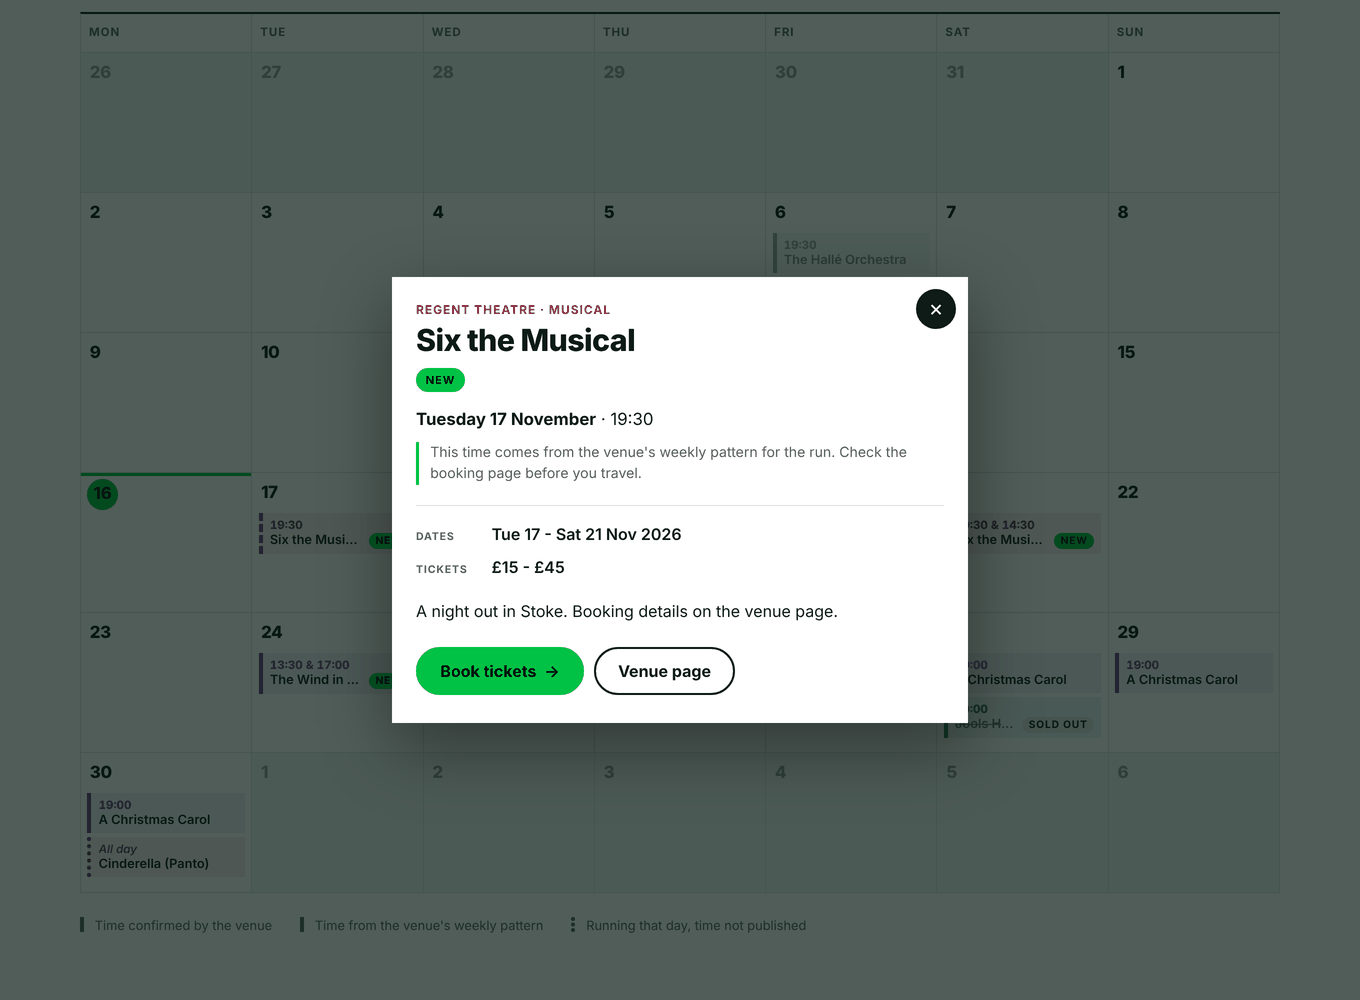
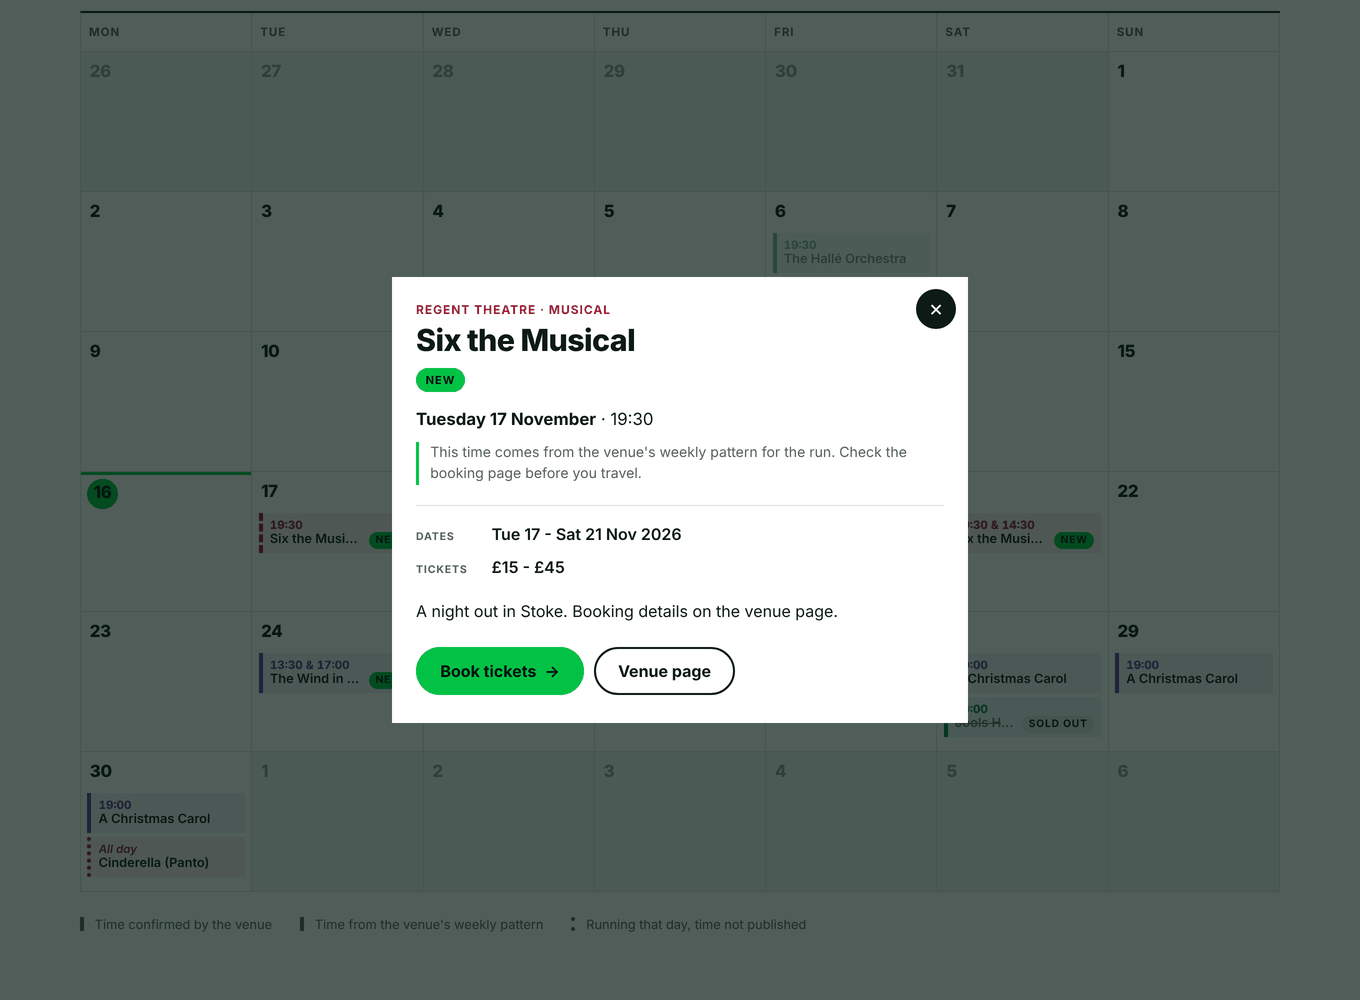
Use flat block colours instead of a gradient hero and shadows
Claude-Session: https://claude.ai/code/session_01EoT8fyBNAVS2zDQ5TxSdoR

diff --git a/public/styles.css b/public/styles.css
@@ -67,25 +67,20 @@ h1, h2, h3 { font-weight: 800; line-height: 1.1; margin: 0; letter-spacing: -0.0
 }
 .brand { display: inline-flex; align-items: center; gap: 0.6rem; color: var(--ink); text-decoration: none; font-weight: 800; font-size: 1.1rem; letter-spacing: -0.01em; }
 .brand-sub { color: var(--accent-text); }
-.brand-mark { width: 1.6rem; height: 1.6rem; border-radius: 50%; background: conic-gradient(var(--regent) 0 33%, var(--victoria-hall) 0 66%, var(--newvic) 0); box-shadow: inset 0 0 0 0.35rem var(--paper), 0 0 0 2px var(--accent); }
+.brand-mark { width: 1.5rem; height: 1.5rem; background: var(--accent); }
 .bell { background: transparent; border: 2px solid var(--ink); color: var(--ink); border-radius: 999px; padding: 0.45rem 1.1rem; font-size: 0.9rem; font-weight: 700; }
 .bell:hover { background: var(--ink); color: var(--paper); }
 .bell.on { background: var(--accent); border-color: var(--accent); color: var(--accent-ink); }
 
-.hero {
-  background:
-    radial-gradient(60rem 30rem at 100% 0%, rgb(2 194 69 / 0.28), transparent 60%),
-    linear-gradient(135deg, var(--hero), color-mix(in srgb, var(--hero) 70%, #000));
-  color: var(--hero-ink);
-}
+.hero { background: var(--hero); color: var(--hero-ink); }
 .hero-inner { max-width: var(--max); margin: 0 auto; padding: clamp(1.75rem, 5vw, 3.5rem) var(--gutter) clamp(1.5rem, 4vw, 2.75rem); }
 .eyebrow { margin: 0 0 0.9rem; font-size: 0.78rem; color: var(--accent); }
 .hero h1 { font-size: clamp(2.4rem, 8vw, 4.75rem); letter-spacing: -0.035em; max-width: 14ch; }
 .lede { margin: 1rem 0 0; max-width: 40rem; font-size: clamp(1rem, 2.2vw, 1.2rem); color: var(--hero-muted); }
 .checked { display: inline-flex; align-items: center; gap: 0.5rem; margin: 1.5rem 0 0; font-size: 0.85rem; color: var(--hero-ink); }
-.checked::before { content: ""; width: 0.55rem; height: 0.55rem; border-radius: 50%; background: var(--accent); box-shadow: 0 0 0 4px rgb(2 194 69 / 0.25); }
+.checked::before { content: ""; width: 0.6rem; height: 0.6rem; border-radius: 50%; background: var(--accent); }
 .checked.warn { color: #ffc2b6; }
-.checked.warn::before { background: #ff8a73; box-shadow: 0 0 0 4px rgb(255 138 115 / 0.25); }
+.checked.warn::before { background: #ff8a73; }
 
 .tabs { border-bottom: 1px solid var(--line); background: var(--paper); position: sticky; top: 0; z-index: 5; }
 .tabs-inner { max-width: var(--max); margin: 0 auto; padding: 0 var(--gutter); display: flex; gap: 1.75rem; }
@@ -97,10 +92,11 @@ h1, h2, h3 { font-weight: 800; line-height: 1.1; margin: 0; letter-spacing: -0.0
 main { max-width: var(--max); margin: 0 auto; padding: 1.75rem var(--gutter) calc(4rem + env(safe-area-inset-bottom)); }
 .notice { background: #fde9e4; color: #7a1f10; padding: 0.8rem 1rem; margin: 0 0 1.25rem; border-left: 4px solid #c8361c; }
 .alert {
-  display: block; width: 100%; text-align: left; margin: 0 0 1.5rem; padding: 1rem 1.25rem; border: 0; border-left: 6px solid var(--accent);
-  background: var(--wash); font-weight: 700;
+  display: block; width: 100%; text-align: left; margin: 0 0 1.5rem; padding: 1rem 1.25rem; border: 0;
+  background: var(--accent); color: var(--accent-ink); font-weight: 700;
 }
-.alert::after { content: " →"; color: var(--accent-text); }
+.alert:hover { background: color-mix(in srgb, var(--accent) 88%, #000); }
+.alert::after { content: " →"; }
 
 /* ---------- toolbar and filter panel ---------- */
 .toolbar { display: flex; flex-wrap: wrap; gap: 1rem 2rem; align-items: center; justify-content: space-between; margin-bottom: 1.5rem; }
@@ -188,7 +184,7 @@ main { max-width: var(--max); margin: 0 auto; padding: 1.75rem var(--gutter) cal
   display: flex; flex-direction: column; gap: 0.6rem; width: 100%; text-align: left; background: var(--card);
   border: 1px solid var(--line); border-top: 4px solid var(--venue); padding: 1.1rem 1.2rem 1.2rem;
 }
-.feed-item:hover { border-color: var(--ink); border-top-color: var(--venue); box-shadow: 0 0.75rem 2rem -1rem rgb(0 0 0 / 0.35); }
+.feed-item:hover { border-color: var(--ink); border-top-color: var(--venue); }
 .feed-head { display: flex; align-items: center; justify-content: space-between; gap: 0.5rem; }
 .feed-label { font-size: 0.72rem; color: var(--venue); }
 .feed-title { font-size: 1.35rem; font-weight: 800; line-height: 1.15; letter-spacing: -0.02em; }
@@ -201,7 +197,7 @@ main { max-width: var(--max); margin: 0 auto; padding: 1.75rem var(--gutter) cal
 .push-help { margin-top: 3rem; padding: 1.25rem 1.5rem; background: var(--wash); color: var(--muted); font-size: 0.92rem; }
 
 /* ---------- dialog ---------- */
-dialog { border: 0; border-radius: 0; padding: 0; width: min(36rem, calc(100vw - 1.5rem)); max-height: calc(100dvh - 2rem); background: var(--card); color: var(--ink); box-shadow: 0 1.5rem 4rem rgb(0 0 0 / 0.4); }
+dialog { border: 0; border-radius: 0; padding: 0; width: min(36rem, calc(100vw - 1.5rem)); max-height: calc(100dvh - 2rem); background: var(--card); color: var(--ink); }
 dialog::backdrop { background: rgb(6 24 17 / 0.7); }
 #dialog-body { padding: 1.5rem 1.5rem 1.75rem; position: relative; }
 .close { position: absolute; top: 0.75rem; right: 0.75rem; z-index: 1; width: 2.5rem; height: 2.5rem; border-radius: 50%; border: 0; background: var(--ink); color: var(--paper); font-size: 1.4rem; line-height: 1; }
@@ -226,5 +222,5 @@ dialog h2 { font-size: 1.9rem; padding-right: 2.75rem; }
 .day-list { margin-top: 1rem; }
 
 @media (prefers-reduced-motion: no-preference) {
-  .pill, .feed-item, .bell, .button, .tab { transition: background-color 120ms, border-color 120ms, box-shadow 160ms, color 120ms; }
+  .pill, .feed-item, .bell, .button, .tab { transition: background-color 120ms, border-color 120ms, color 120ms; }
 }
